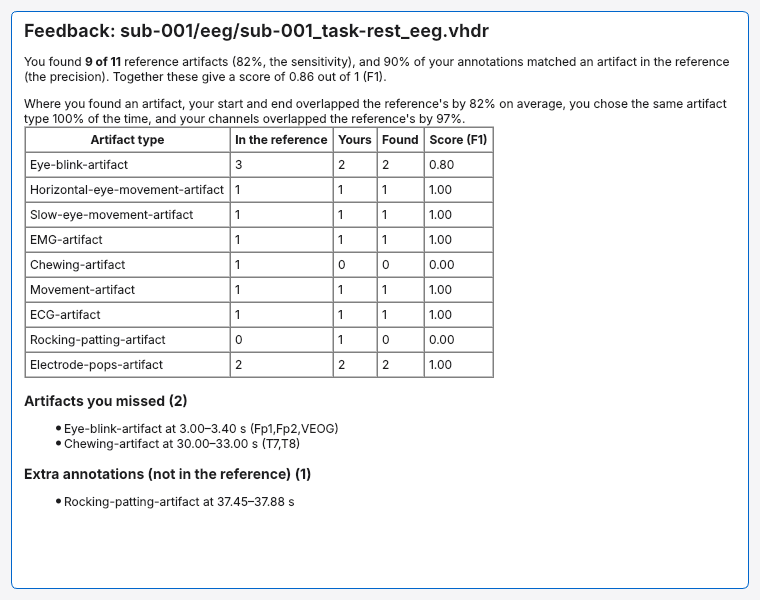
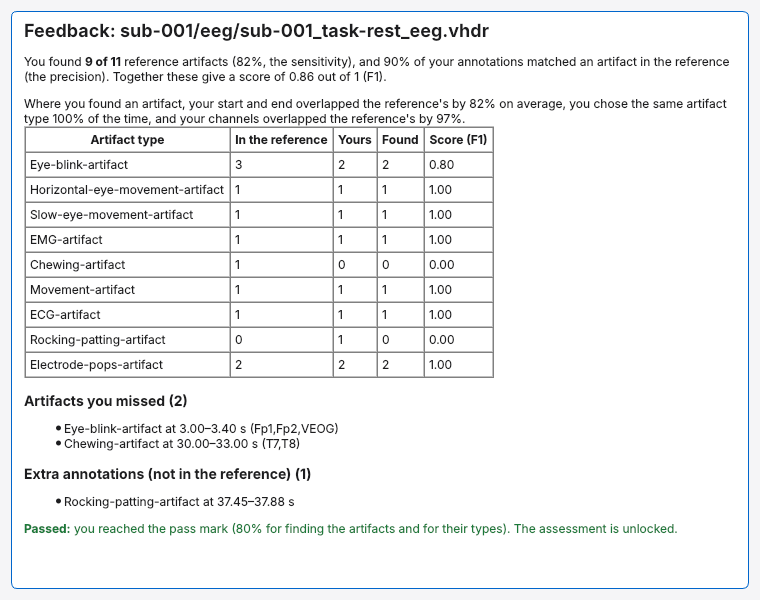
Training programme: guides, screenshots, its own admin tab and lasting flag colours
Claude-Session: https://claude.ai/code/session_017xVKVrhY2LqVqx1mumB73p

Changed region(s): [[0.0303, 0.87, 0.9079, 0.9]]

diff --git a/scripts/make_screenshots.py b/scripts/make_screenshots.py
@@ -150,7 +150,10 @@ def main() -> int:
         fd.resize(760, 600)
         lay = QVBoxLayout(fd)
         tb = QTextBrowser()
-        tb.setHtml(feedback_html(fb))
+        from electroclean.training.guided_gui import practice_verdict_html
+        from electroclean.training.programme import PassRule
+
+        tb.setHtml(feedback_html(fb) + practice_verdict_html(rs, PassRule().evaluate(fb), True))
         lay.addWidget(tb)
         fd.show()
         grab(fd, "practice_feedback.png")
@@ -161,11 +164,16 @@ def main() -> int:
                                      prompts=ScriptedPrompts(), read_only=True, display_prefix=prefix,
                                      window_title="ElectroClean – review: YOU versus REF")
         prepare_review_window(review)
+        from electroclean.training.guided_gui import add_review_flags, review_flags
+
+        add_review_flags(ctrl, review, review_flags(fb, list(mine.annotations),
+                                                    list(rs.reference_document(rid).annotations), lr.timing.sfreq))
         review.show()
         desktop_size(review)
         QTest.qWaitForWindowExposed(review.browser)
         settle(300)
-        review.controller.jump_to(sorted(store.annotations(), key=lambda a: a.onset_sample)[0].annotation_id)
+        review.review_step(1)  # the first item under "What to look at"
+        review.controller.select(None)  # show the flag colours rather than the selection
         settle(300)
         grab(review.browser, "practice_review.png")
         review.browser.close()
@@ -190,6 +198,34 @@ def main() -> int:
         adm.tabs.setCurrentIndex(2)
         grab(adm, "admin_criteria.png")
         adm.close()
+
+        # Training programme: the path and a guided step (with the example set)
+        from electroclean.app.gui.start_window import StartRequest
+        from electroclean.training.examples import create_example_training_set
+        from electroclean.training.guided_gui import continue_programme
+
+        create_example_training_set(root, study)
+        tctrl = AppController(prompts=ScriptedPrompts({"Save and Finish": True}), synchronous_loading=True)
+        tctrl.begin(StartRequest("A01", "", root, None, "practice", reference_set_id="example", programme=True))
+        continue_programme(tctrl)
+        gws = tctrl.workspace
+        desktop_size(gws)
+        coach = gws.coach
+        t = coach.current.target
+        gws.session.store.add("Eye-blink-artifact", t.onset_sample - 60, t.duration_samples, ("Fp1", "Fp2"))
+        settle(300)
+        grab(gws.browser, "guided_step.png")
+        gws.session.store.undo()
+        while not coach.complete:
+            coach.show_me()
+            settle(20)
+            coach.next_step()
+        gws.save_and_finish()
+        settle(300)
+        path = tctrl.training_path
+        path.resize(980, 500)
+        grab(path, "training_path.png")
+        path.hide()
 
         # Agreement report (rendered with Playwright if available)
         from electroclean.app.io.canonical import write_annotations_json

diff --git a/electroclean/training/gui.py b/electroclean/training/gui.py
@@ -560,6 +560,7 @@ class AdminDialog(QDialog):
         self._build_criteria_tab()
         self._build_quiz_tab()
         self._build_progress_tab()
+        self._build_programme_tab()
         self._refresh_sets()
 
     # ---------------------------------------------------------------- utils
@@ -805,7 +806,6 @@ class AdminDialog(QDialog):
         row2.addWidget(self.change_use_btn)
         row2.addWidget(self.remove_btn)
         v.addLayout(row2)
-        v.addWidget(self._build_programme_box())
         self.tabs.addTab(w, "Reference sets")
 
     def _sets(self) -> list[ReferenceSet]:
@@ -1068,8 +1068,32 @@ class AdminDialog(QDialog):
             "experts' recordings (Add recording with expert annotations…) when you have them.")
 
     # ---------------------------------------------------- programme settings
+    def _build_programme_tab(self) -> None:
+        w = QWidget()
+        v = QVBoxLayout(w)
+        v.addWidget(style.label(
+            "Annotators who choose Training programme work through the chosen set's guided recordings (learn with "
+            "the experts), then its practice recordings (on their own), then its assessment. These settings belong "
+            "to the reference set chosen above.", "caption", wrap=True))
+        v.addWidget(self._build_programme_box())
+        example = QGroupBox("Example training set")
+        el = QVBoxLayout(example)
+        el.addWidget(style.label(
+            "Three simulated recordings with known artifacts (two to learn with the experts, one to practise on), "
+            "as placeholders until your experts' recordings are ready. Replace them with Add recording with expert "
+            "annotations… on the Reference sets tab.", "caption", wrap=True))
+        erow = QHBoxLayout()
+        self.example_btn = QPushButton("Create example training set")
+        self.example_btn.clicked.connect(self.create_example_set)
+        erow.addWidget(self.example_btn)
+        erow.addStretch(1)
+        el.addLayout(erow)
+        v.addWidget(example)
+        v.addStretch(1)
+        self.tabs.addTab(w, "Training programme")
+
     def _build_programme_box(self) -> QGroupBox:
-        box = QGroupBox("Training programme")
+        box = QGroupBox("Matching and pass mark")
         form = QFormLayout(box)
         pass_row = QHBoxLayout()
         self.pass_f1 = self._needs_set(QSpinBox())
@@ -1107,12 +1131,8 @@ class AdminDialog(QDialog):
         buttons = QHBoxLayout()
         self.save_programme_btn = self._needs_set(QPushButton("Save programme settings"))
         self.save_programme_btn.clicked.connect(self.save_programme)
-        example = QPushButton("Create example training set")
-        example.setToolTip("Three simulated recordings with known artifacts, as placeholders for real expert files")
-        example.clicked.connect(self.create_example_set)
         buttons.addWidget(self.save_programme_btn)
         buttons.addStretch(1)
-        buttons.addWidget(example)
         form.addRow(buttons)
         return box
 

diff --git a/electroclean/training/guided_gui.py b/electroclean/training/guided_gui.py
@@ -685,7 +685,7 @@ def _colour_flags(ws: Any, flags: list[dict[str, Any]]) -> None:
         region = ws.controller.regions.get(f["region"])
         if region is None:
             continue
-        region.text_color = QColor(style.colour(FLAG_COLOURS[f["kind"]]))
+        region.label_colour_override = QColor(style.colour(FLAG_COLOURS[f["kind"]]))
         try:
             region._style_label()
             region.label_item.update()
@@ -704,6 +704,7 @@ def add_review_flags(ctrl: Any, ws: Any, flags: list[dict[str, Any]]) -> None:
     style_reference_regions(ws)
     _colour_flags(ws, flags)
     ws.controller.annotationsChanged.connect(lambda: _colour_flags(ws, flags))
+    ws.controller.selectionChanged.connect(lambda *_: _colour_flags(ws, flags))  # MNE recolours on selection
     panel = ws.annotation_dock.widget().layout()
     box = QWidget()
     v = QVBoxLayout(box)

diff --git a/electroclean/app/gui/browser.py b/electroclean/app/gui/browser.py
@@ -258,7 +258,10 @@ class ArtifactRegion(AnnotRegion):
             return 1.05 / (lum + 0.05)
 
         item = self.label_item
-        base = QColor(getattr(self, "text_color", None) or QColor(COLOURS["text_secondary"]))
+        # label_colour_override: a colour that MNE's own updates (selection, type changes) keep,
+        # used by the practice review to flag missed, extra and relabelled artifacts.
+        base = QColor(getattr(self, "label_colour_override", None) or getattr(self, "text_color", None)
+                      or QColor(COLOURS["text_secondary"]))
         fill = QColor(COLOURS["surface"])
         fill.setAlpha(215)
         outline = QColor(base)

diff --git a/docs/administrator_guide.md b/docs/administrator_guide.md
@@ -253,7 +253,8 @@ annotator chose not to restore, is moved to
 ### Reference sets
 
 A reference set is a group of recordings with expert reference annotations,
-each marked for **practice** or **assessment**. The references must be
+each marked for **guided** learning (Stage 1 of the training programme, below),
+**practice** or **assessment**. The references must be
 prepared independently of the people being assessed, so that, for example,
 Cameron can be trained and assessed without having produced any of the
 reference material himself. The method used is stored as provenance with each
@@ -261,13 +262,13 @@ reference.
 
 In the administrator tools, the reference set chosen at the top of the window
 is the one that the *Reference sets*, *Competency criteria*, *Quiz* and
-*Progress and reports* tabs work on. Each of the three *Add* buttons asks
-whether the new reference is for practice or for assessment. There is no
+*Progress and reports* tabs work on. Each of the *Add* buttons asks whether
+the new reference is for guided learning, practice or assessment. There is no
 default, because a reference imported for practice by mistake would give
-annotators feedback on an assessment recording. *Change use…* switches the
-selected recording between the two; when annotators have already completed
-the recording in practice, ElectroClean names them and warns that the
-assessment would not be blinded for them.
+annotators feedback on an assessment recording. *Change use…* gives the
+selected recording another use; when annotators have already completed the
+recording in practice or guided learning, ElectroClean names them and warns
+that the assessment would not be blinded for them.
 
 ```bash
 electroclean-admin create-reference-set /data/MyStudy pilot --name "Pilot set" \
@@ -372,6 +373,91 @@ Each competency report carries a `results_sha256` digest of its contents.
 it from the saved JSON file, and regenerating a report from the same files
 gives the same digest.
 
+### The training programme
+
+When annotators choose *Training programme* on the start window, they work
+through three stages of a reference set, each unlocked by the one before:
+**learn with the experts** (the set's guided recordings), **on your own** (its
+practice recordings, with a pass mark) and the **competency assessment** (its
+assessment recordings). A stage the set has no recordings for is skipped. A
+training path window shows the stages, what each annotator has done, their
+stars, best practice score and time, and the next step. Section 7 of the user
+guide describes what annotators see.
+
+**Self-contained reference sets.** A reference set can keep its recordings in
+its own folder (`recordings/` inside the set, laid out like a small BIDS
+dataset), so training recordings are never offered for study annotation and
+the whole set can be copied to another study. Such sets have
+`"recordings_dir": "recordings"` in their `reference_set.json`. Sets that refer
+to recordings of the study dataset work as before.
+
+**The example training set.** Until your experts' files are ready, *Create
+example training set* on the *Training programme* tab (or
+`electroclean-admin create-example-set /data/MyStudy`) makes a self-contained
+set called *Example training set (placeholder)* with three simulated
+recordings: two for guided learning and one for practice. Its reference is the
+simulation's ground truth, known exactly because the artifacts were simulated,
+and each guided step has a placeholder note that describes only what was
+simulated. Use it to try the programme and to show annotators how it works;
+it is not expert material.
+
+**Real expert files.** Each expert annotates the recordings in ElectroClean in
+standard mode (in their own results folder). *Add recording with expert
+annotations…* (or `electroclean-admin import-recording /data/MyStudy SET
+recording_eeg.vhdr E1_annotations.json --use guided`) copies the recording, its
+companion files and its BIDS sidecars into the set's own folder and uses the
+expert's file as the reference. To build a set from two or three real files,
+create a new reference set, add each recording with its use, and remove the
+example set's folder when it is no longer needed. Consensus and adjudicated
+references (above) can also be used for guided and practice recordings.
+
+**How much help guided recordings give.** The first guided recording shows
+each artifact (a dashed outline of the experts' interval and channels), the
+second names the type and shows a screen that contains it, and later ones only
+say that another artifact follows. To choose for a recording:
+`electroclean-admin set-guidance /data/MyStudy SET RECORDING show|find|find_unnamed`
+(`auto` goes back to choosing by its place). The *Used for* column shows the
+level, for example "guided (find)".
+
+**Notes from the experts.** Each guided step can show the experts' explanation
+of that artifact:
+`electroclean-admin set-note /data/MyStudy SET ANNOTATION_ID "Look at the frontal channels first"`.
+Annotation IDs are in the reference files (`references/` inside the set); the
+notes are stored under `guided.notes` in `reference_set.json`.
+
+**What counts as a match.** In guided learning an annotation matches the
+experts' when it has the same type, its start and end are each within 0.2 s
+or 20 % of the experts' duration (whichever is larger), it has the same scope
+(whole montage or particular channels) and, for channel-specific annotations,
+at least 75 % of the channels are the same (Jaccard index: the channels both
+chose divided by the channels either chose). The *Training programme* tab
+sets these for the reference set chosen at the top, or
+`electroclean-admin set-programme /data/MyStudy SET --tolerance-s 0.25 --tolerance-fraction 0.2 --channel-overlap 0.75`.
+Alternatives that are also accepted for a type can be listed in
+`guided.tolerance.accepted_labels` in `reference_set.json`, for example
+`{"Eye-blink-artifact": ["Eye-artifact"]}`.
+
+**The pass mark for practice.** A practice recording passes when the
+annotator finds at least 80 % of the experts' artifacts (event F1) and gives
+at least 80 % of those found the experts' type, by default. The *Training
+programme* tab sets both, or
+`electroclean-admin set-programme /data/MyStudy SET --pass-f1 0.8 --pass-types 0.8`.
+One passed practice recording unlocks the assessment. When every practice
+recording has been done without passing, the training path offers one of them
+again (saved as a second attempt, `_attempt-02`).
+
+**Progress and records.** Completion comes from the completion register, as
+for all work. Stars, scores, times and the order of stages are kept for each
+annotator in `Annotated_Events/training_progress/<set>/annotator-<ID>.json`,
+and each guided recording's summary (steps, stars, attempts, steps shown) is
+also in its session file, so the progress file can be rebuilt if it is lost.
+Every step (each check with what differed, each *Show me*, each step's time
+and stars, each practice score, and each item opened in a review) is recorded
+in the visit's interaction log. The *Progress and reports* tab and
+`electroclean-admin progress` list, for each annotator, the guided recordings
+done with their stars, the practice recordings done and whether one passed,
+and the assessment recordings done.
+
 ### What annotators experience
 
 In **practice** mode annotators see feedback after each recording and can
@@ -382,8 +468,9 @@ report to `Annotated_Events/training/<set>/reports/` and shows the annotator
 a summary: the overall result, the table of criteria and what to do next. The
 full report is for you (see `show_full_report_to_annotator` above). The
 annotation window's title shows how far they are, for example "assessment
-recording 1 of 2". Practice and assessment annotations are stored under
-`Annotated_Events/training/` and are never mixed with research annotations.
+recording 1 of 2". Guided, practice and assessment annotations are stored
+under `Annotated_Events/training/` and are never mixed with research
+annotations.
 
 ### Competency reports
 

diff --git a/docs/user_guide.md b/docs/user_guide.md
@@ -27,7 +27,7 @@ this dataset, for example by fixing the viewing filters or assigning
 recordings to you.
 
 **What would you like to do?** Choose *Annotate recordings* for research
-annotation, or *Practise with feedback* or *Competency assessment* (section 7);
+annotation, or *Training programme* or *Competency assessment* (section 7);
 the choice of reference set and activity appears when one of these two is
 chosen. Leave *Let me choose the recording* unticked unless your administrator
 asks you to choose; normally a recording you have not yet completed is picked
@@ -248,31 +248,75 @@ it has been fixed.
 
 ## 7. Training and assessment
 
-Your administrator may ask you to practise on reference recordings and then
-complete an assessment.
+Your administrator may ask you to go through the training programme before you
+annotate study recordings. It has three stages, and each one unlocks when you
+have completed the one before.
 
-**Practise with feedback.** Choose *Practise with feedback* on the start window,
-then the reference set and *Continuous recordings* as the activity. Annotate as usual. After Save and Finish you see how your
-annotations compare with the reference: how many reference artifacts you
-found, which you missed, which of yours are not in the reference, and where
-you chose a different type.
+**Starting.** Choose *Training programme* on the start window, the reference
+set your administrator named, and *Recordings* as the activity, then press
+**Begin**. Instead of going straight to a recording, ElectroClean shows your
+training path: the three stages side by side, what you have done in each,
+your stars and best score, and one blue button for the next step. You come
+back to this window after every recording, and you can leave it (*Back to the
+start window*) and continue another day from where you stopped.
+
+![Training path](images/training_path.png)
+
+**Stage 1: learn with the experts.** You work through recordings that experts
+have annotated, one artifact at a time, and mark each one as they did. A
+*Learn with the experts* panel above the list of annotations says what to do:
+
+1. In the first recording each artifact is outlined with a dashed line, with
+   its type, its channels and the experts' note about it. Choose the type
+   (the number key or the type buttons), choose the channels, and mark it by
+   dragging or with **M** at its start and end.
+2. In the second recording the panel names the type and shows a screen that
+   contains it, and you find it yourself.
+3. In later recordings it only says that another artifact follows; you scroll
+   on and find it.
+
+Every change you make is checked at once against the experts' annotation, and
+the panel says what is right and what still differs, for example "the start
+is 0.40 s too early", the type the experts chose, or a channel that is
+missing. A start or end within 0.2 s (or a fifth of the artifact's length, for
+long artifacts) counts as the same, unless your administrator chose otherwise.
+Change your annotation until the panel turns green, then press **Continue**
+(or Enter, or Space) for the next one. If something you marked is not in the
+experts' annotations, the panel says so and selects it; delete it (Delete) or
+undo. **Show me** places the experts' annotation for you to study.
+
+![Learn with the experts](images/guided_step.png)
+
+Each artifact earns up to three stars: three if you match it at your first
+try, two within three tries, and one with *Show me*. When every artifact
+matches, press **Save and Finish**; it stays unavailable until then.
+
+**Stage 2: on your own.** You annotate a practice recording by yourself, with
+the usual tools and no help. After Save and Finish you see how your
+annotations compare with the experts': how many of their artifacts you found,
+which you missed, which of yours they did not mark, and where you chose a
+different type. Below that is the verdict: passing needs, by default, 80 % of
+the experts' artifacts found and 80 % of those given the right type. If you
+have not passed yet, the training path offers the next practice recording, or
+the same one again.
 
 ![Practice feedback](images/practice_feedback.png)
 
 Press **Review in the viewer** to see your annotations (`YOU:`, shaded) and
-the reference (`REF:`, hatched with dotted edges) together. The review window
-is read-only; press **Finish review** (or close the window) when you are done.
-The window title shows how far you are, for example "practice recording 2 of
-5".
+the experts' (`REF:`, hatched with dotted edges) together. The differences are
+marked on the EEG (*MISSED*, *EXTRA*, and *TYPE* when you chose another type)
+and listed above the annotations under *What to look at*: click an item, or
+press **N** and **P**, to go from one to the next. The review window is
+read-only; press **Finish review** (or close the window) when you are done.
 
 ![Review against the reference](images/practice_review.png)
 
-**Competency assessment.** Choose *Competency assessment*, the reference set
-and *Continuous recordings*. You annotate the
-assessment recordings without feedback. When all of them are complete,
-ElectroClean shows your result and the criteria you were assessed against,
-and tells you what to do next. The full report, with the details of every
-recording, is saved for your study administrator.
+**Stage 3: competency assessment.** You annotate the assessment recordings
+without feedback. When all of them are complete, ElectroClean shows your
+result and the criteria you were assessed against, and tells you what to do
+next. The full report, with the details of every recording, is saved for your
+study administrator. (Your administrator can also ask you to take the
+assessment directly: choose *Competency assessment* on the start window.)
 
 **Short-segment quiz.** Some reference sets include a quiz (choose
 *Short-segment quiz* as the activity): you see short
